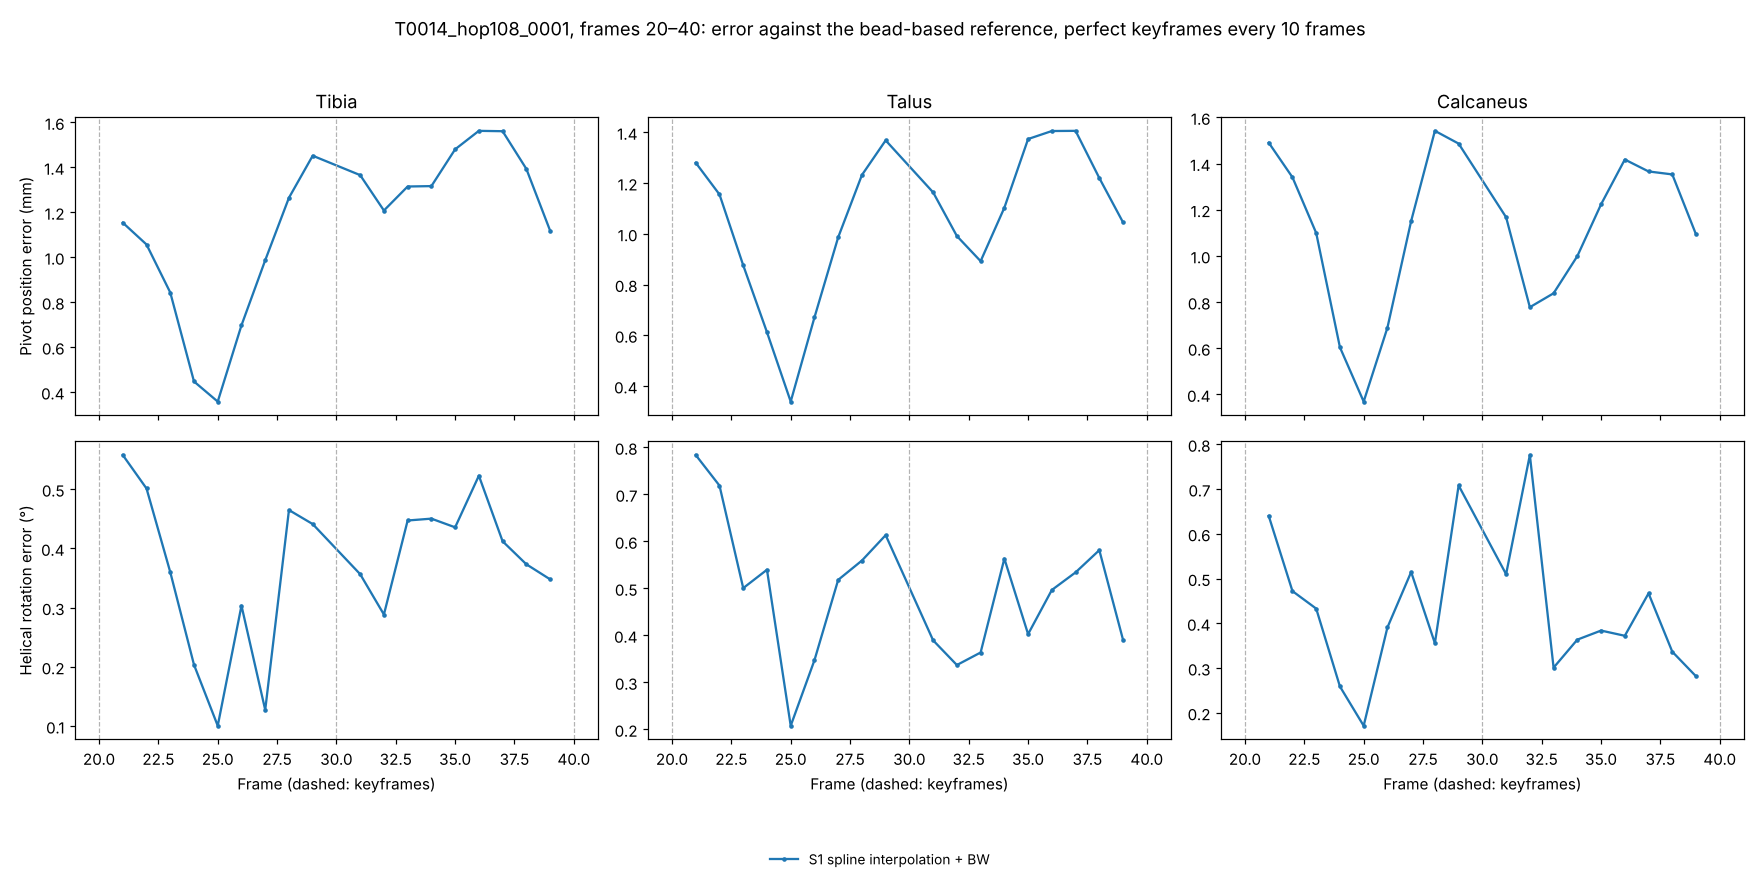
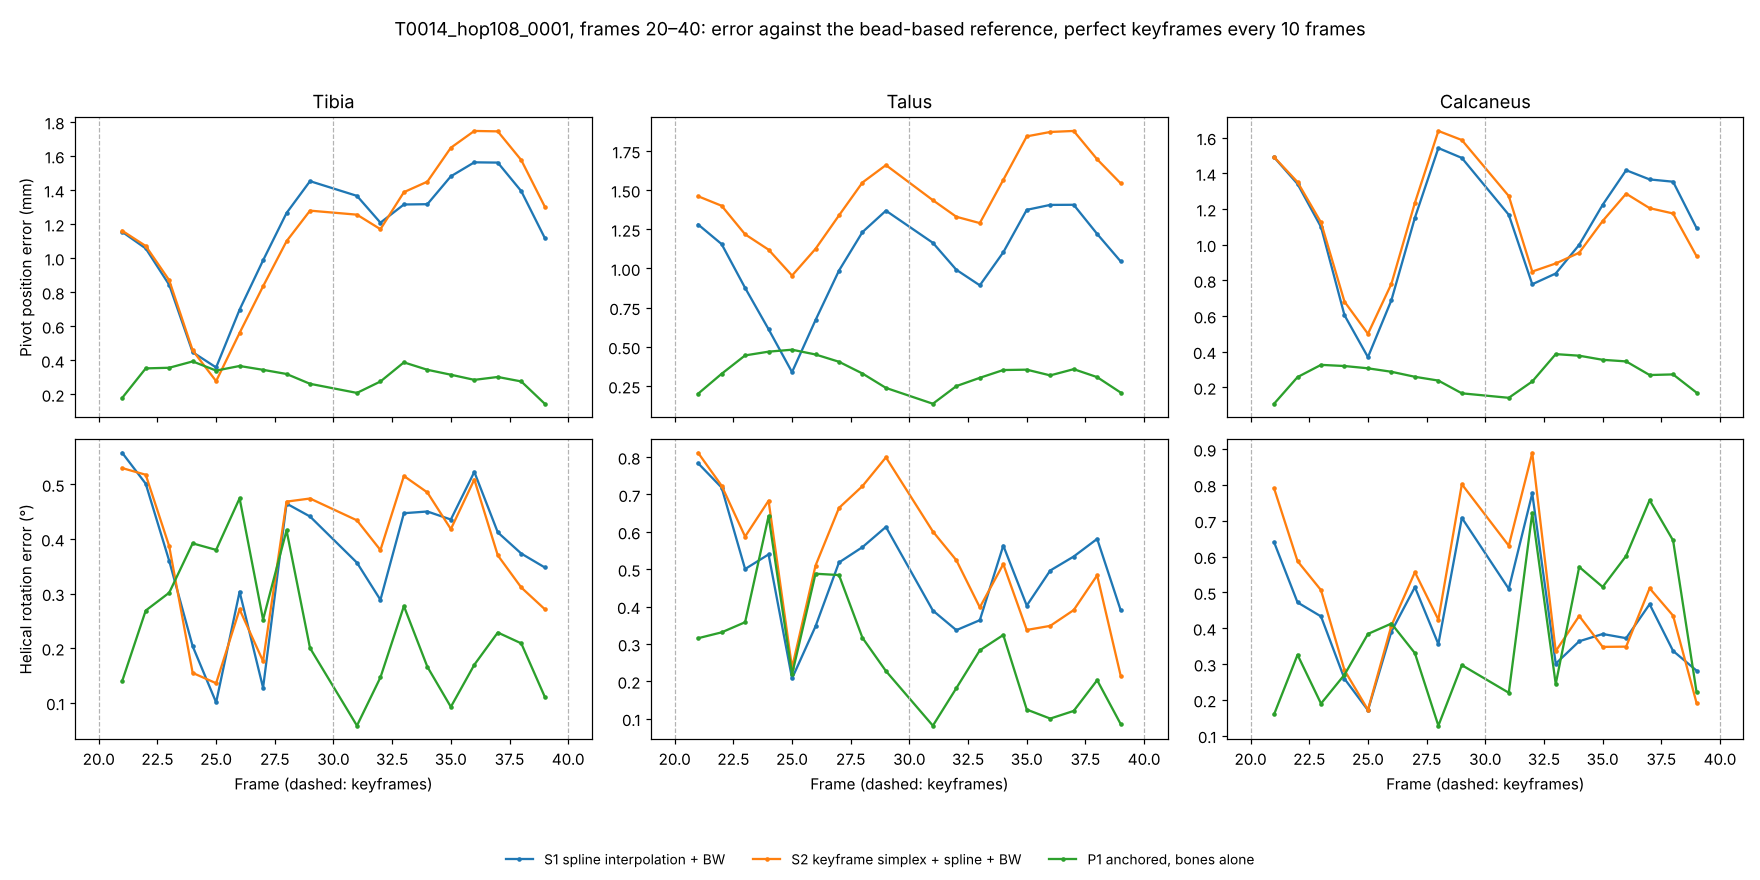
Add point-cloud overlay figures comparing methods at frame 35
Claude-Session: https://claude.ai/code/session_01JfvJhBuhVLNNbo2jK5Ak9k

diff --git a/pilot/welte_hop1/pointcloud.py b/pilot/welte_hop1/pointcloud.py
@@ -1,0 +1,77 @@
+"""Point-cloud overlays: CT bone points placed by each method vs by the reference, on both radiographs.
+
+Points are voxels on strong 3D intensity gradients (cortical outline). For each method column, the
+reference points are drawn in yellow and the method's points in magenta; where they coincide the
+method matches the bead-based pose.
+
+Usage: python pointcloud.py <frame> [zoom bone: tib|tal|cal|all] [arms, comma-separated]
+"""
+import os
+import sys
+
+import matplotlib
+matplotlib.use('Agg')
+import matplotlib.pyplot as plt
+import numpy as np
+
+HERE = os.path.dirname(os.path.abspath(__file__))
+ROOT = os.path.dirname(os.path.dirname(HERE))
+sys.path.insert(0, ROOT)
+from bvr_opt.geometry import helical_error, pivot_error
+from bvr_opt.io import Trial
+
+T = Trial(os.path.join(ROOT, 'datasets/Welte2022/data/SOL001A/T0014_hop108_0001'))
+RES = os.path.join(HERE, 'results'); FIG = os.path.join(HERE, 'figures')
+COL = {'tib': '#7dff6a', 'tal': '#4dd2ff', 'cal': '#ff5c7a'}
+NAME = {'tib': 'tibia', 'tal': 'talus', 'cal': 'calcaneus'}
+LABEL = {'S1_spline': 'S1 spline + 10 Hz filter', 'S1_spline_raw': 'S1 spline, unfiltered',
+         'S2': 'S2 keyframe simplex + spline + filter', 'S3': 'S3 per-frame PSO', 'P1': 'P1 anchored, bones alone',
+         'P2': 'P2 anchored, co-fitted', 'P3': 'P3 co-fitted + contact', 'P3tol': 'P3 contact, tolerant', 'PF': 'Per-frame co-fit'}
+
+
+def load(arm):
+    if arm.startswith('S3'):
+        parts = [p for p in os.listdir(RES) if p.startswith('S3') and p.endswith('.npz')]
+        tr = [dict(np.load(os.path.join(RES, p))) for p in parts]
+        return {n: np.nanmean(np.stack([t[n] for t in tr]), 0) for n in tr[0]}
+    return dict(np.load(os.path.join(RES, f'{arm}.npz')))
+
+
+def main(f, zoom='all', arms=('S1_spline', 'S1_spline_raw', 'S2', 'P1')):
+    bones = ['tib', 'tal', 'cal'] if zoom == 'all' else [zoom]
+    pts = {n: T.bones[n].surface_points(700 if zoom == 'all' else 900, quantile=0.95, seed=1) for n in bones}
+    tracks = {a: load(a) for a in arms}
+    fig, ax = plt.subplots(2, len(arms), figsize=(4.6 * len(arms), 9.6 if zoom == 'all' else 8.4))
+    for ci, cam in enumerate(T.cams):
+        im = T.image(ci, f).numpy()
+        ref_uv = {n: cam.project(pts[n] @ T.ref[n][f][:3, :3].T + T.ref[n][f][:3, 3]) for n in bones}
+        allr = np.vstack(list(ref_uv.values())); lo, hi = allr.min(0), allr.max(0)
+        pad = 40 if zoom == 'all' else 25
+        for j, a in enumerate(arms):
+            x = ax[ci, j]
+            x.imshow(im, cmap='gray', vmin=np.percentile(im, 1), vmax=np.percentile(im, 99.5))
+            title = [LABEL.get(a, a)]
+            for n in bones:
+                M = tracks[a][n][f]
+                x.scatter(*(ref_uv[n] - .5).T, s=5 if zoom != 'all' else 3, c='#ffd400', alpha=.9, lw=0)
+                if np.isfinite(M).all():
+                    uv = cam.project(pts[n] @ M[:3, :3].T + M[:3, 3])
+                    x.scatter(*(uv - .5).T, s=5 if zoom != 'all' else 3, c='#ff2bd6', alpha=.9, lw=0)
+                    if ci == 0:
+                        title.append(f'{NAME[n]}: {pivot_error(M, T.ref[n][f], T.bones[n].pivot):.2f} mm, '
+                                     f'{helical_error(M, T.ref[n][f])[0]:.2f}°')
+            x.set_xlim(lo[0] - pad, hi[0] + pad); x.set_ylim(min(hi[1] + pad, cam.H), max(lo[1] - pad, 0))
+            x.set_xticks([]); x.set_yticks([])
+            if ci == 0: x.set_title('\n'.join(title), fontsize=9)
+            if j == 0: x.set_ylabel(f'Camera {ci + 1}', fontsize=11)
+    what = 'tibia, talus, calcaneus' if zoom == 'all' else NAME[zoom]
+    fig.suptitle(f'Frame {f} (hidden; keyframes at 30 and 40): {what}. yellow = reference (bead-based) pose, '
+                 f'magenta = method pose', fontsize=11)
+    plt.tight_layout(rect=(0, 0, 1, 0.97))
+    path = os.path.join(FIG, f'pointcloud_f{f}_{zoom}.png'); plt.savefig(path, dpi=110); print(path)
+
+
+if __name__ == '__main__':
+    f = int(sys.argv[1]); zoom = sys.argv[2] if len(sys.argv) > 2 else 'all'
+    arms = sys.argv[3].split(',') if len(sys.argv) > 3 else ('S1_spline', 'S1_spline_raw', 'S2', 'P1')
+    main(f, zoom, arms)

diff --git a/pilot/welte_hop1/results/summary.md b/pilot/welte_hop1/results/summary.md
@@ -5,11 +5,17 @@ Median [max] over hidden frames 21–29, 31–39
 | S1 slerp interpolation + BW | 18 | 0.47 [0.68] | 2.11 [2.80] | 0.58 [0.86] | 1.82 [2.54] | 0.62 [1.18] | 1.77 [2.58] | -1.68 |
 | S1 spline interpolation + BW | 18 | 0.39 [0.56] | 1.24 [1.56] | 0.51 [0.78] | 1.13 [1.41] | 0.39 [0.78] | 1.16 [1.54] | -1.69 |
 | S1 spline interpolation, unfiltered | 18 | 0.19 [0.61] | 0.48 [1.47] | 0.36 [0.66] | 0.47 [1.49] | 0.28 [0.43] | 0.57 [1.49] | -1.69 |
+| S2 keyframe simplex + spline + BW | 18 | 0.40 [0.53] | 1.21 [1.75] | 0.52 [0.81] | 1.45 [1.88] | 0.43 [0.89] | 1.15 [1.64] | -1.39 |
+| P1 anchored, bones alone | 18 | 0.22 [0.47] | 0.32 [0.39] | 0.26 [0.64] | 0.33 [0.48] | 0.33 [0.76] | 0.27 [0.39] | -1.36 |
 | S1_linear_raw | 18 | 0.37 [0.61] | 1.68 [2.65] | 0.44 [0.70] | 1.64 [2.36] | 0.49 [0.86] | 1.62 [2.04] | -1.69 |
+| S2_raw | 18 | 0.26 [0.59] | 0.55 [1.70] | 0.38 [0.62] | 0.95 [1.90] | 0.23 [0.52] | 0.66 [1.35] | -1.38 |
 
 | Arm | Tibia helical translation mm | Talus helical translation mm | Calcaneus helical translation mm | Tib–tal rot ° | Tal–cal rot ° |
 |---|---|---|---|---|---|
 | S1 slerp interpolation + BW | 1.05 [2.29] | 0.59 [1.59] | 0.49 [1.04] | 0.38 [0.70] | 0.33 [0.60] |
 | S1 spline interpolation + BW | 0.38 [0.95] | 0.36 [0.62] | 0.24 [0.94] | 0.23 [0.47] | 0.30 [0.48] |
 | S1 spline interpolation, unfiltered | 0.20 [0.73] | 0.10 [0.28] | 0.34 [0.87] | 0.22 [0.54] | 0.30 [0.42] |
+| S2 keyframe simplex + spline + BW | 0.48 [1.16] | 0.85 [1.47] | 0.51 [1.17] | 0.36 [0.68] | 0.25 [0.63] |
+| P1 anchored, bones alone | 0.19 [0.33] | 0.11 [0.34] | 0.11 [0.33] | 0.24 [0.80] | 0.55 [0.71] |
 | S1_linear_raw | 0.82 [1.58] | 0.39 [1.62] | 0.33 [0.67] | 0.44 [0.63] | 0.32 [0.53] |
+| S2_raw | 0.35 [1.37] | 0.47 [1.14] | 0.38 [0.86] | 0.36 [0.71] | 0.31 [0.55] |
